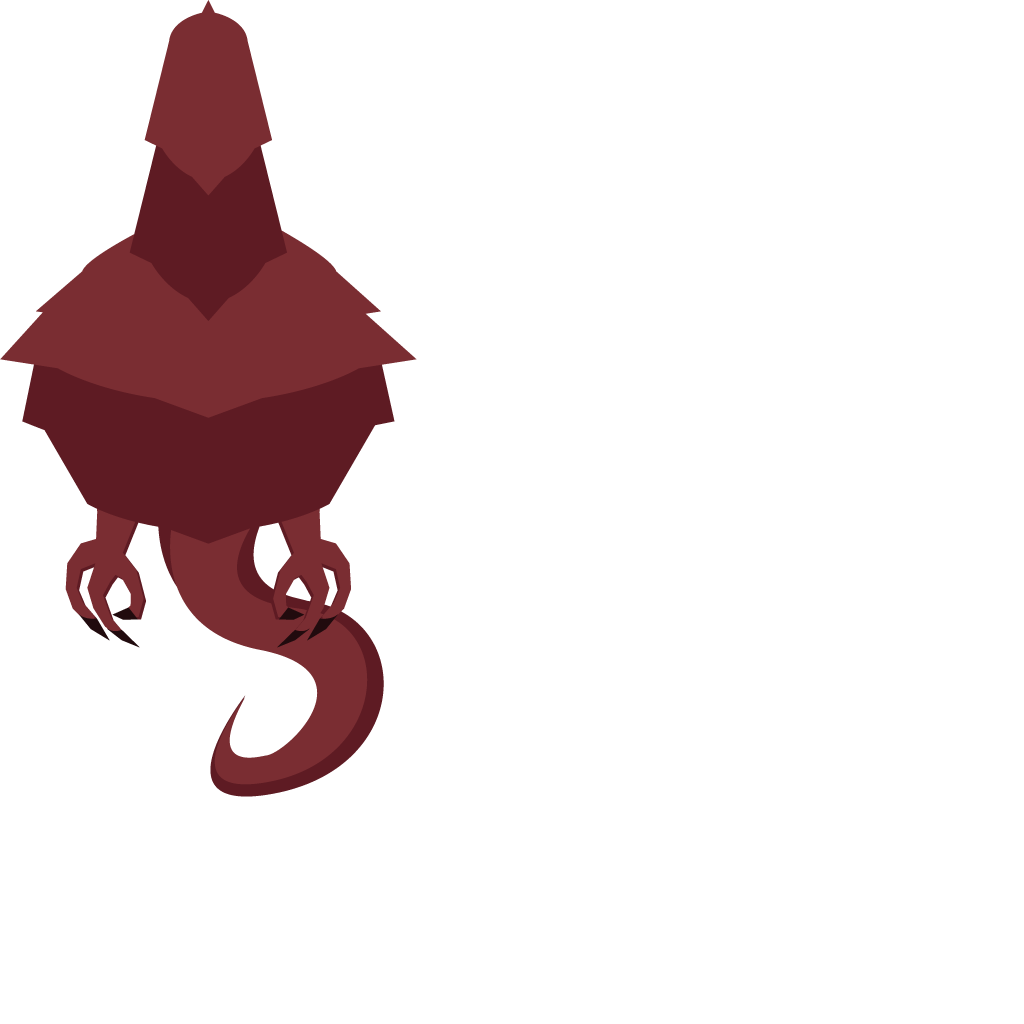
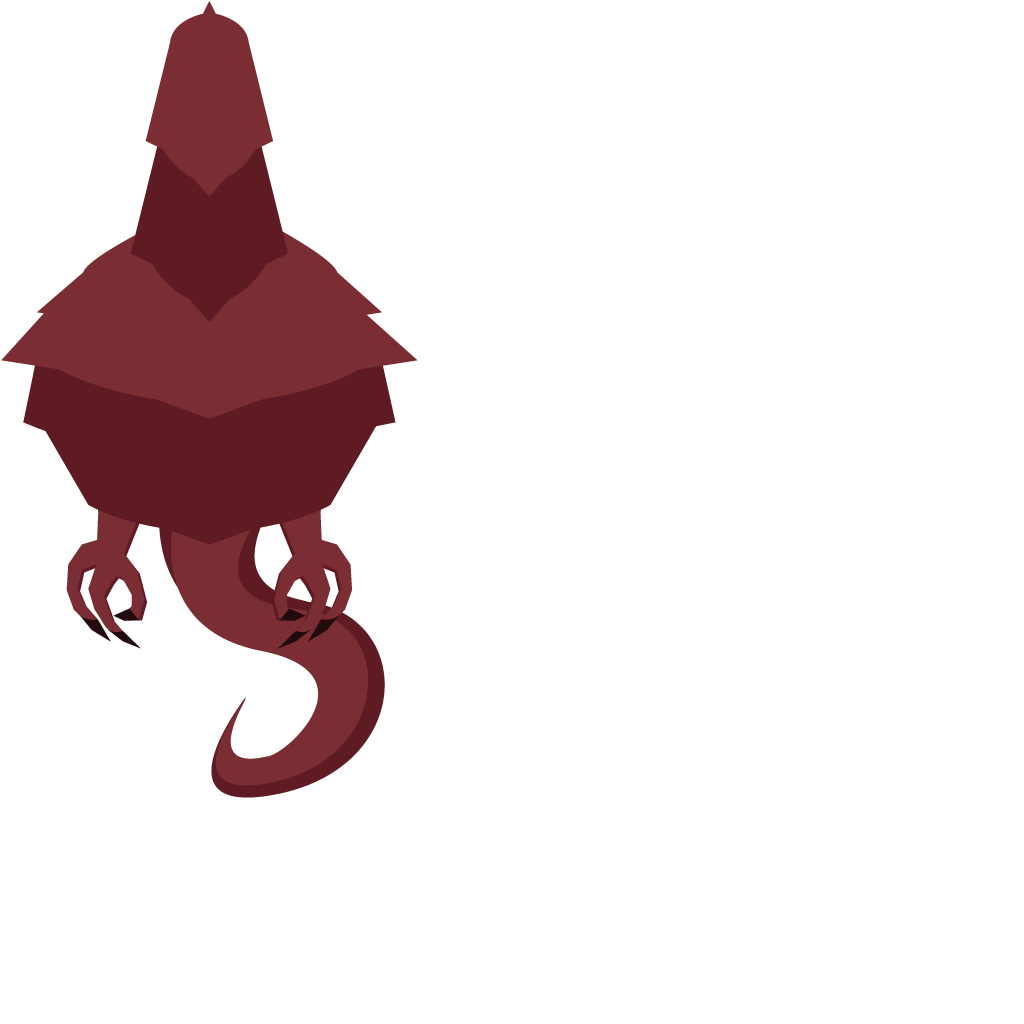
dragon update
- ran dragon assets through Spritely
- made dragon head render on top of
fireball

diff --git a/vox/Source/vox/src/SlayTheDragonResourceManager.cpp b/vox/Source/vox/src/SlayTheDragonResourceManager.cpp
@@ -15,15 +15,15 @@ TextureSampler * SlayTheDragonResourceManager::archerTorso		= new TextureSampler
 TextureSampler * SlayTheDragonResourceManager::archerArm		= new TextureSampler(new Texture("../assets/hurly-burly/ArcherAssets/ArcherArm.png", 1024, 1024, true, true), 64, 228);
 TextureSampler * SlayTheDragonResourceManager::archerHat		= new TextureSampler(new Texture("../assets/hurly-burly/ArcherAssets/ArcherHat.png", 1024, 1024, true, true), 191, 275);
 
-TextureSampler * SlayTheDragonResourceManager::dragonHead		= new TextureSampler(new Texture("../assets/hurly-burly/DragonAssets/DragonHead.png", 1024, 1024, true, true), 552, 388);
-TextureSampler * SlayTheDragonResourceManager::dragonMouth		= new TextureSampler(new Texture("../assets/hurly-burly/DragonAssets/DragonMouth.png", 1024, 1024, true, true), 262, 270);
-TextureSampler * SlayTheDragonResourceManager::dragonTorso		= new TextureSampler(new Texture("../assets/hurly-burly/DragonAssets/DragonTorso.png", 1024, 1024, true, true), 417, 797);
-TextureSampler * SlayTheDragonResourceManager::dragonUpperWing	= new TextureSampler(new Texture("../assets/hurly-burly/DragonAssets/DragonUpperWing.png", 1024, 1024, true, true), 326, 580);
-TextureSampler * SlayTheDragonResourceManager::dragonLowerWing	= new TextureSampler(new Texture("../assets/hurly-burly/DragonAssets/DragonLowerWing.png", 1024, 1024, true, true), 298, 578);
+TextureSampler * SlayTheDragonResourceManager::dragonHead		= new TextureSampler("../assets/hurly-burly/DragonAssets/", "DragonHead.png.def");
+TextureSampler * SlayTheDragonResourceManager::dragonMouth		= new TextureSampler("../assets/hurly-burly/DragonAssets/", "DragonMouth.png.def");
+TextureSampler * SlayTheDragonResourceManager::dragonTorso		= new TextureSampler("../assets/hurly-burly/DragonAssets/", "DragonTorso.png.def");
+TextureSampler * SlayTheDragonResourceManager::dragonUpperWing	= new TextureSampler("../assets/hurly-burly/DragonAssets/", "DragonUpperWing.png.def");
+TextureSampler * SlayTheDragonResourceManager::dragonLowerWing	= new TextureSampler("../assets/hurly-burly/DragonAssets/", "DragonLowerWing.png.def");
 
 TextureSampler * SlayTheDragonResourceManager::itemBow	= new TextureSampler(new Texture("../assets/hurly-burly/WeaponAssets/Bow.png", 1024, 1024, true, true), 99, 474);
 TextureSampler * SlayTheDragonResourceManager::itemArrow	= new TextureSampler(new Texture("../assets/hurly-burly/WeaponAssets/Arrow.png", 1024, 1024, true, true), 77, 539);
-TextureSampler * SlayTheDragonResourceManager::itemFireball	= new TextureSampler(new Texture("../assets/hurly-burly/DragonAssets/Fireball.png", 1024, 1024, true, true), 309, 302);
+TextureSampler * SlayTheDragonResourceManager::itemFireball	= new TextureSampler("../assets/hurly-burly/DragonAssets/", "Fireball.png.def");
 TextureSampler * SlayTheDragonResourceManager::itemFireParticle	= new TextureSampler("../assets/hurly-burly/DragonAssets/", "FireParticle.png.def");
 
 SoundManager * SlayTheDragonResourceManager::dragonSounds = new SoundManager(-1);

diff --git a/vox/Source/vox/src/PuppetCharacterDragon.cpp b/vox/Source/vox/src/PuppetCharacterDragon.cpp
@@ -91,8 +91,7 @@ void PuppetCharacterDragon::render(vox::MatrixStack* _matrixStack, RenderOptions
 	// change the shader settings based on current damage and player id
 	if (!ai){
 		static_cast<ShaderComponentHsv *>(static_cast<BaseComponentShader *>(_renderStack->shader)->components.at(1))->setHue(float(id) * 0.167f);
-	}
-	else{
+	}else{
 		static_cast<ShaderComponentHsv *>(static_cast<BaseComponentShader *>(_renderStack->shader)->components.at(1))->setSaturation(0.f);
 	}
 
@@ -103,10 +102,8 @@ void PuppetCharacterDragon::render(vox::MatrixStack* _matrixStack, RenderOptions
 	armRight->render(_matrixStack, _renderStack);
 	torso->render(_matrixStack, _renderStack);
 	head->render(_matrixStack, _renderStack);
-	headgear->render(_matrixStack, _renderStack);
-	// This is scary face->render(_matrixStack, _renderStack);
-
-	
+	// This is scary
+	//face->render(_matrixStack, _renderStack);
 
 	// revert the shader settings
 	static_cast<ShaderComponentHsv *>(static_cast<BaseComponentShader *>(_renderStack->shader)->components.at(1))->setHue(hue);
@@ -122,6 +119,29 @@ void PuppetCharacterDragon::render(vox::MatrixStack* _matrixStack, RenderOptions
 	}
 	fireParticles->setShader(getShader(), true);
 	fireParticles->render(_matrixStack, _renderStack);
+
+
+	// render head on top
+	static_cast<ShaderComponentTint *>(static_cast<BaseComponentShader *>(_renderStack->shader)->components.at(2))->setRed(red + (1 - control) * 3);
+	static_cast<ShaderComponentTint *>(static_cast<BaseComponentShader *>(_renderStack->shader)->components.at(2))->setGreen(green - (1 - control) * 3);
+	static_cast<ShaderComponentTint *>(static_cast<BaseComponentShader *>(_renderStack->shader)->components.at(2))->setBlue(blue - (1 - control) * 3);
+
+	// change the shader settings based on current damage and player id
+	if (!ai){
+		static_cast<ShaderComponentHsv *>(static_cast<BaseComponentShader *>(_renderStack->shader)->components.at(1))->setHue(float(id) * 0.167f);
+	}else{
+		static_cast<ShaderComponentHsv *>(static_cast<BaseComponentShader *>(_renderStack->shader)->components.at(1))->setSaturation(0.f);
+	}
+	headgear->render(_matrixStack, _renderStack);
+	// revert the shader settings
+	static_cast<ShaderComponentHsv *>(static_cast<BaseComponentShader *>(_renderStack->shader)->components.at(1))->setHue(hue);
+	static_cast<ShaderComponentHsv *>(static_cast<BaseComponentShader *>(_renderStack->shader)->components.at(1))->setSaturation(sat);
+	
+	static_cast<ShaderComponentTint *>(static_cast<BaseComponentShader *>(_renderStack->shader)->components.at(2))->setRed(red);
+	static_cast<ShaderComponentTint *>(static_cast<BaseComponentShader *>(_renderStack->shader)->components.at(2))->setGreen(green);
+	static_cast<ShaderComponentTint *>(static_cast<BaseComponentShader *>(_renderStack->shader)->components.at(2))->setBlue(blue);
+
+
 }
 
 void PuppetCharacterDragon::update(Step * _step){
